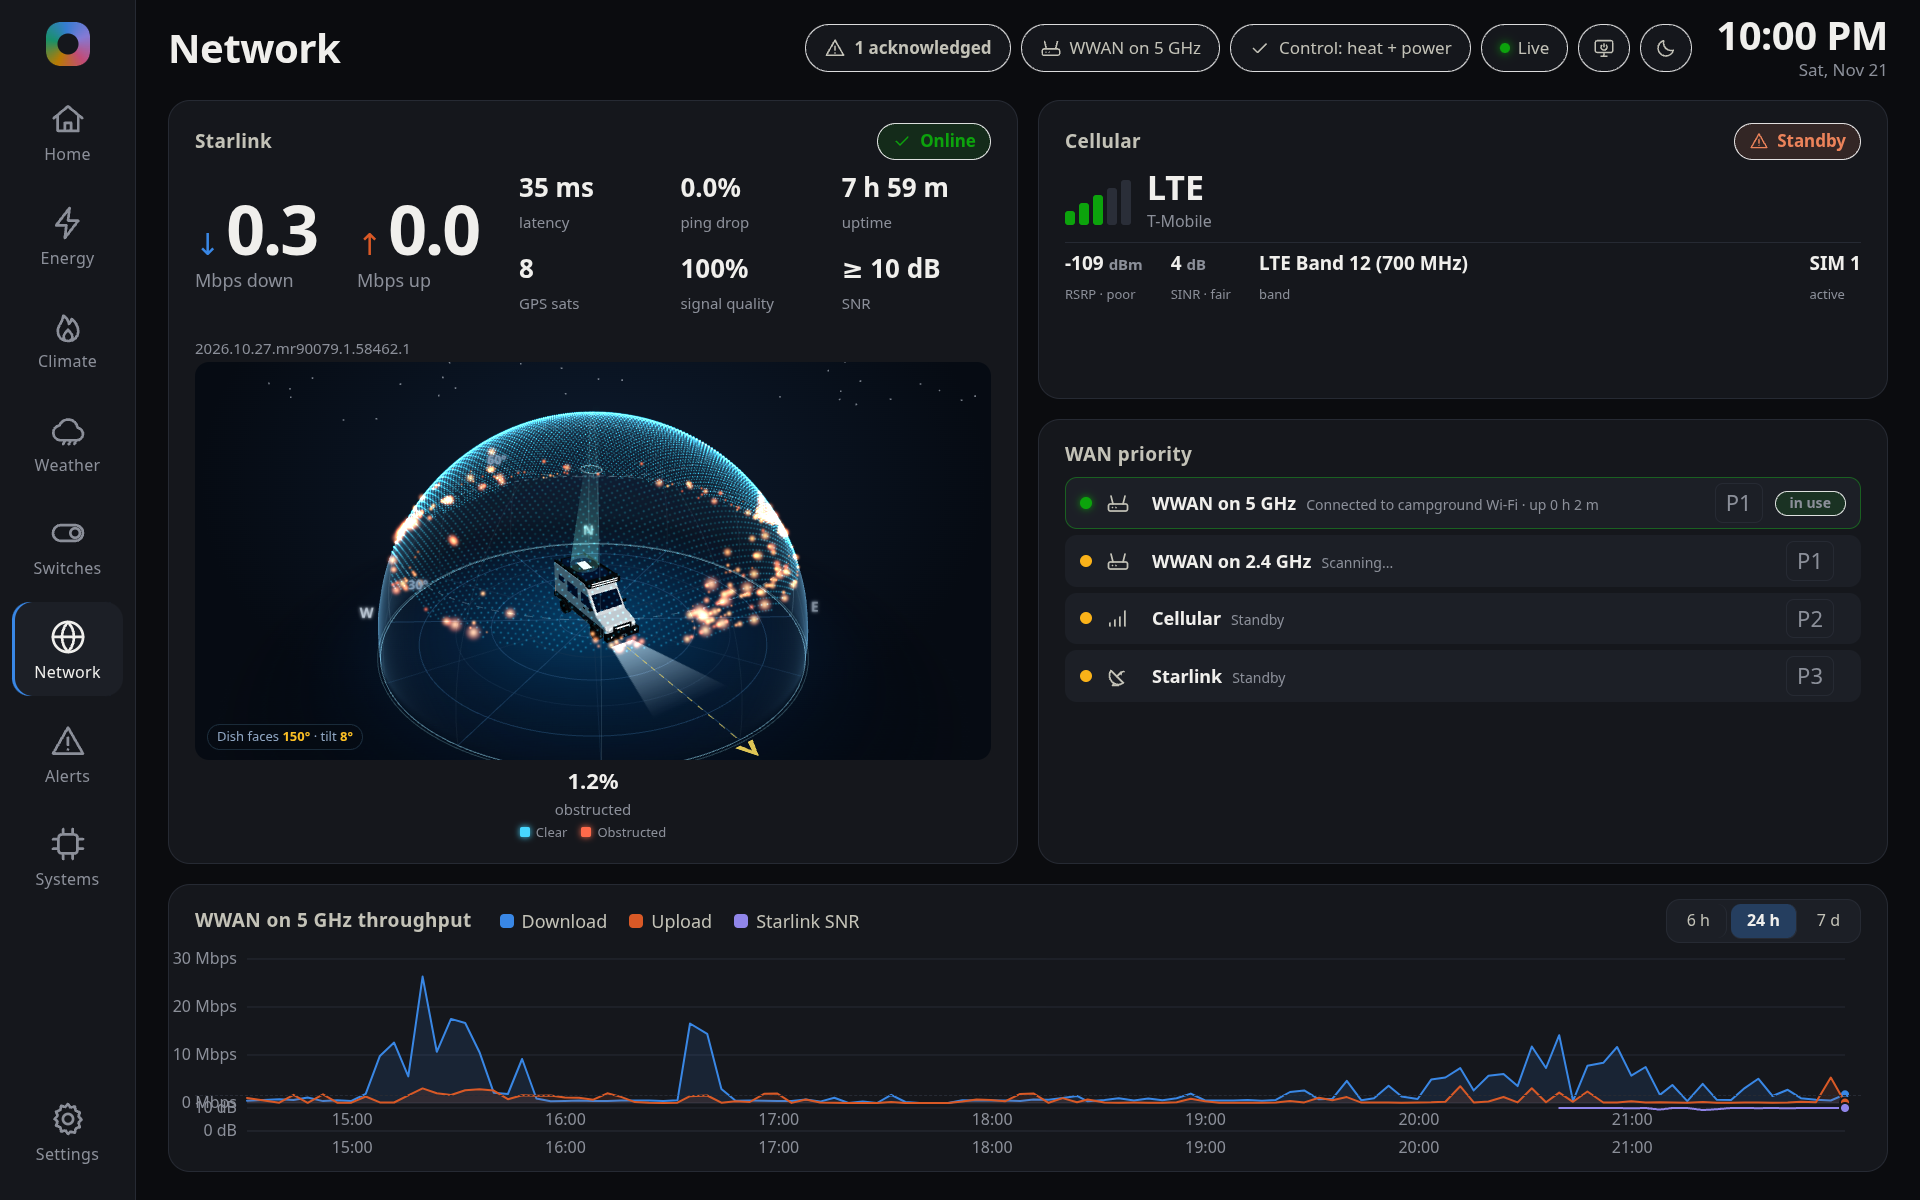
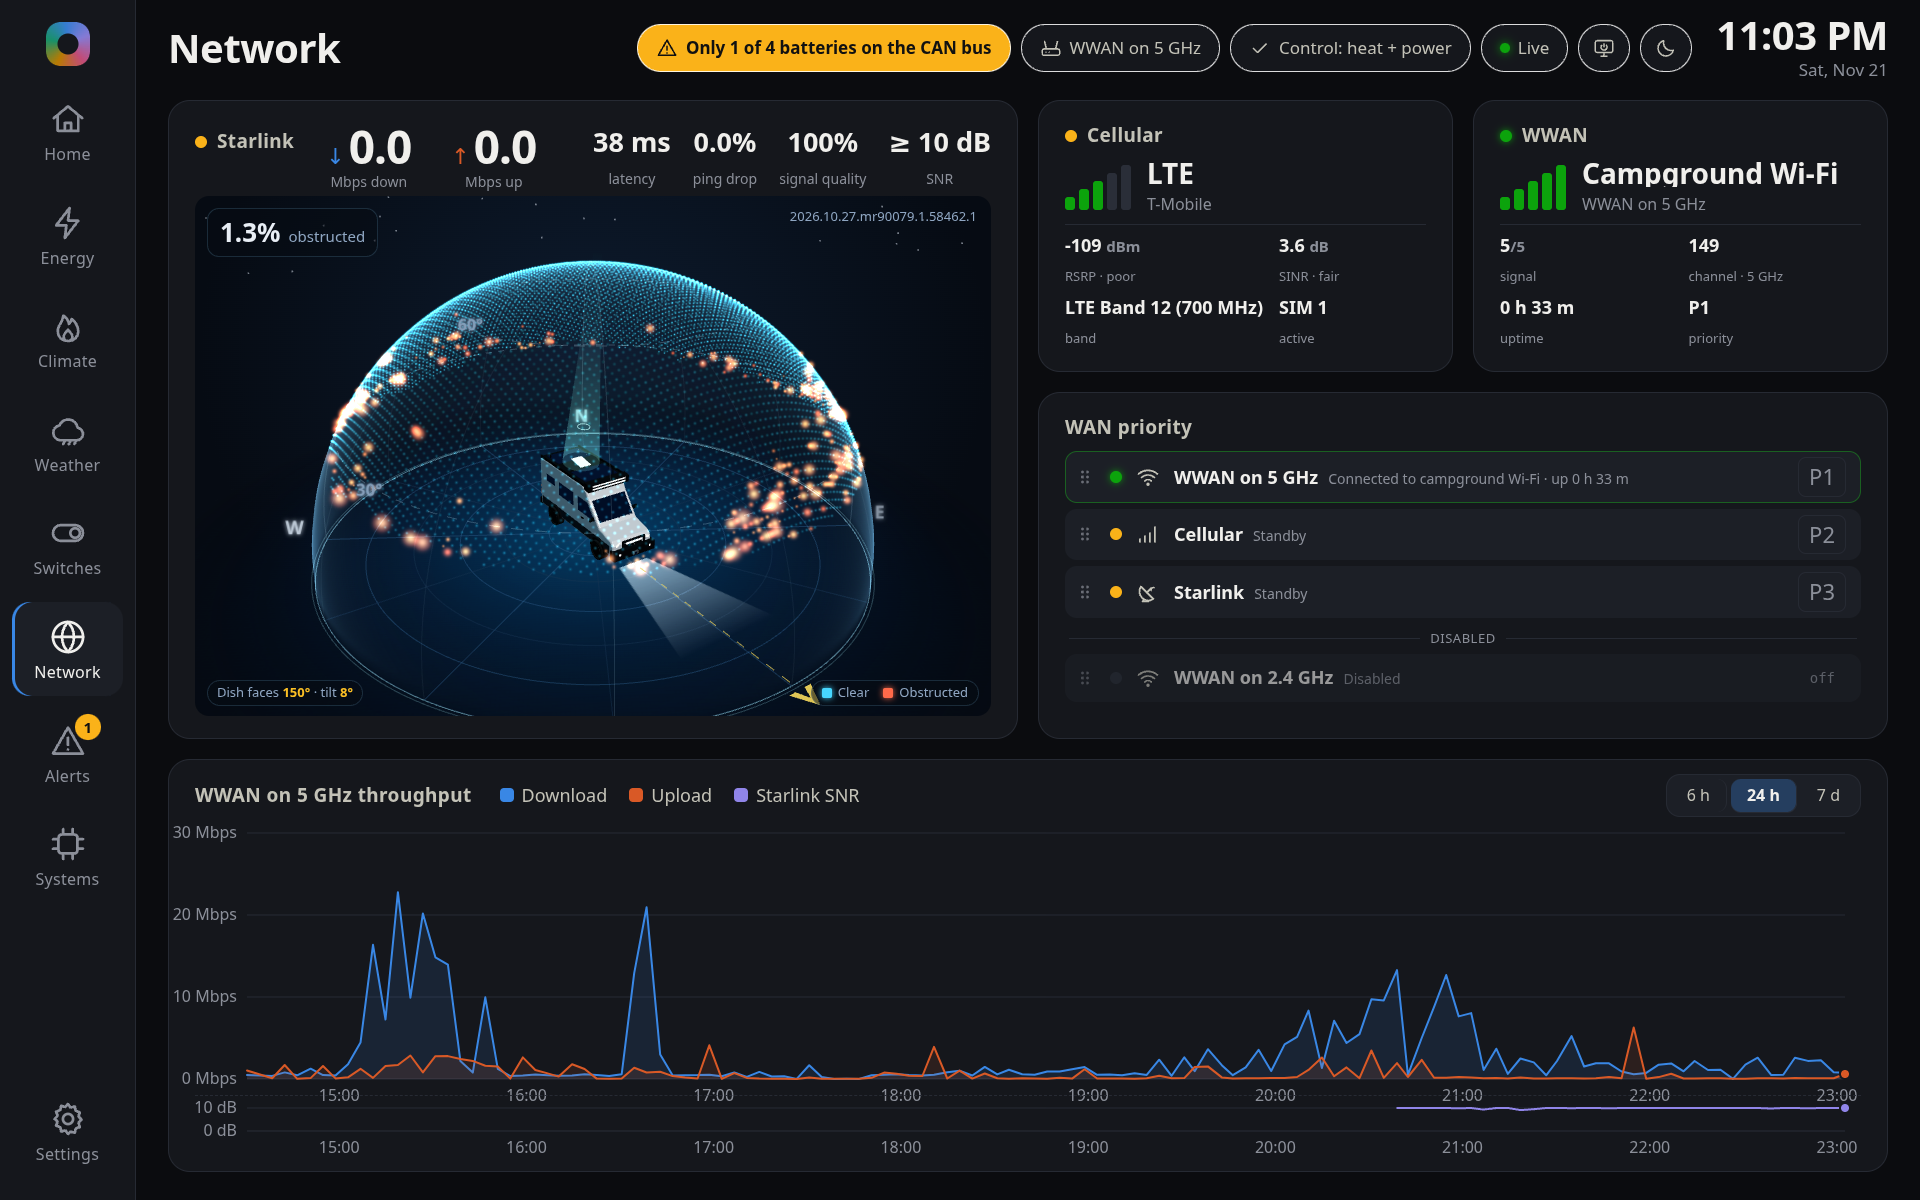
README: refresh the Network screenshot (WWAN card, drag-to-reorder WAN priority)
Wi-Fi network names masked in the image.

Claude-Session: https://claude.ai/code/session_01Jyszw5WomTV2FtT2Ap4Hst

diff --git a/README.md b/README.md
@@ -5,7 +5,7 @@ screen, with chrome from the [AetherSDR](https://aethersdr.com) project.
 
 ![AetherRV home screen on the van's 10.1" touchscreen](docs/screenshots/home.png)
 
-<img src="docs/screenshots/energy.png" width="24%" alt="Energy screen: 3D battery bank with four batteries read over Bluetooth, power readings, inverter and solar controls, power history"> <img src="docs/screenshots/climate.png" width="24%" alt="Climate screen: setpoint dial, Rixens MCS7 status and temperature history"> <img src="docs/screenshots/weather.png" width="24%" alt="Weather screen: sunrise/sunset day bar, radar map and a 7-day forecast"> <img src="docs/screenshots/network.png" width="24%" alt="Network screen: Starlink stats with a 3D obstruction sky over the van, cellular, WAN priority and throughput with SNR">
+<img src="docs/screenshots/energy.png" width="24%" alt="Energy screen: 3D battery bank with four batteries read over Bluetooth, power readings, inverter and solar controls, power history"> <img src="docs/screenshots/climate.png" width="24%" alt="Climate screen: setpoint dial, Rixens MCS7 status and temperature history"> <img src="docs/screenshots/weather.png" width="24%" alt="Weather screen: sunrise/sunset day bar, radar map and a 7-day forecast"> <img src="docs/screenshots/network.png" width="24%" alt="Network screen: Starlink stats over a 3D obstruction sky with the van, Cellular and WWAN cards, drag-to-reorder WAN priority with a disabled section, and throughput with SNR">
 
 - **Energy:** a Victron Cerbo GX over MQTT shows battery, solar, shore, alternator, inverter and loads as an
   animated flow, with history. It controls MultiPlus mode, shore current limit and MPPT on/off. Individual
